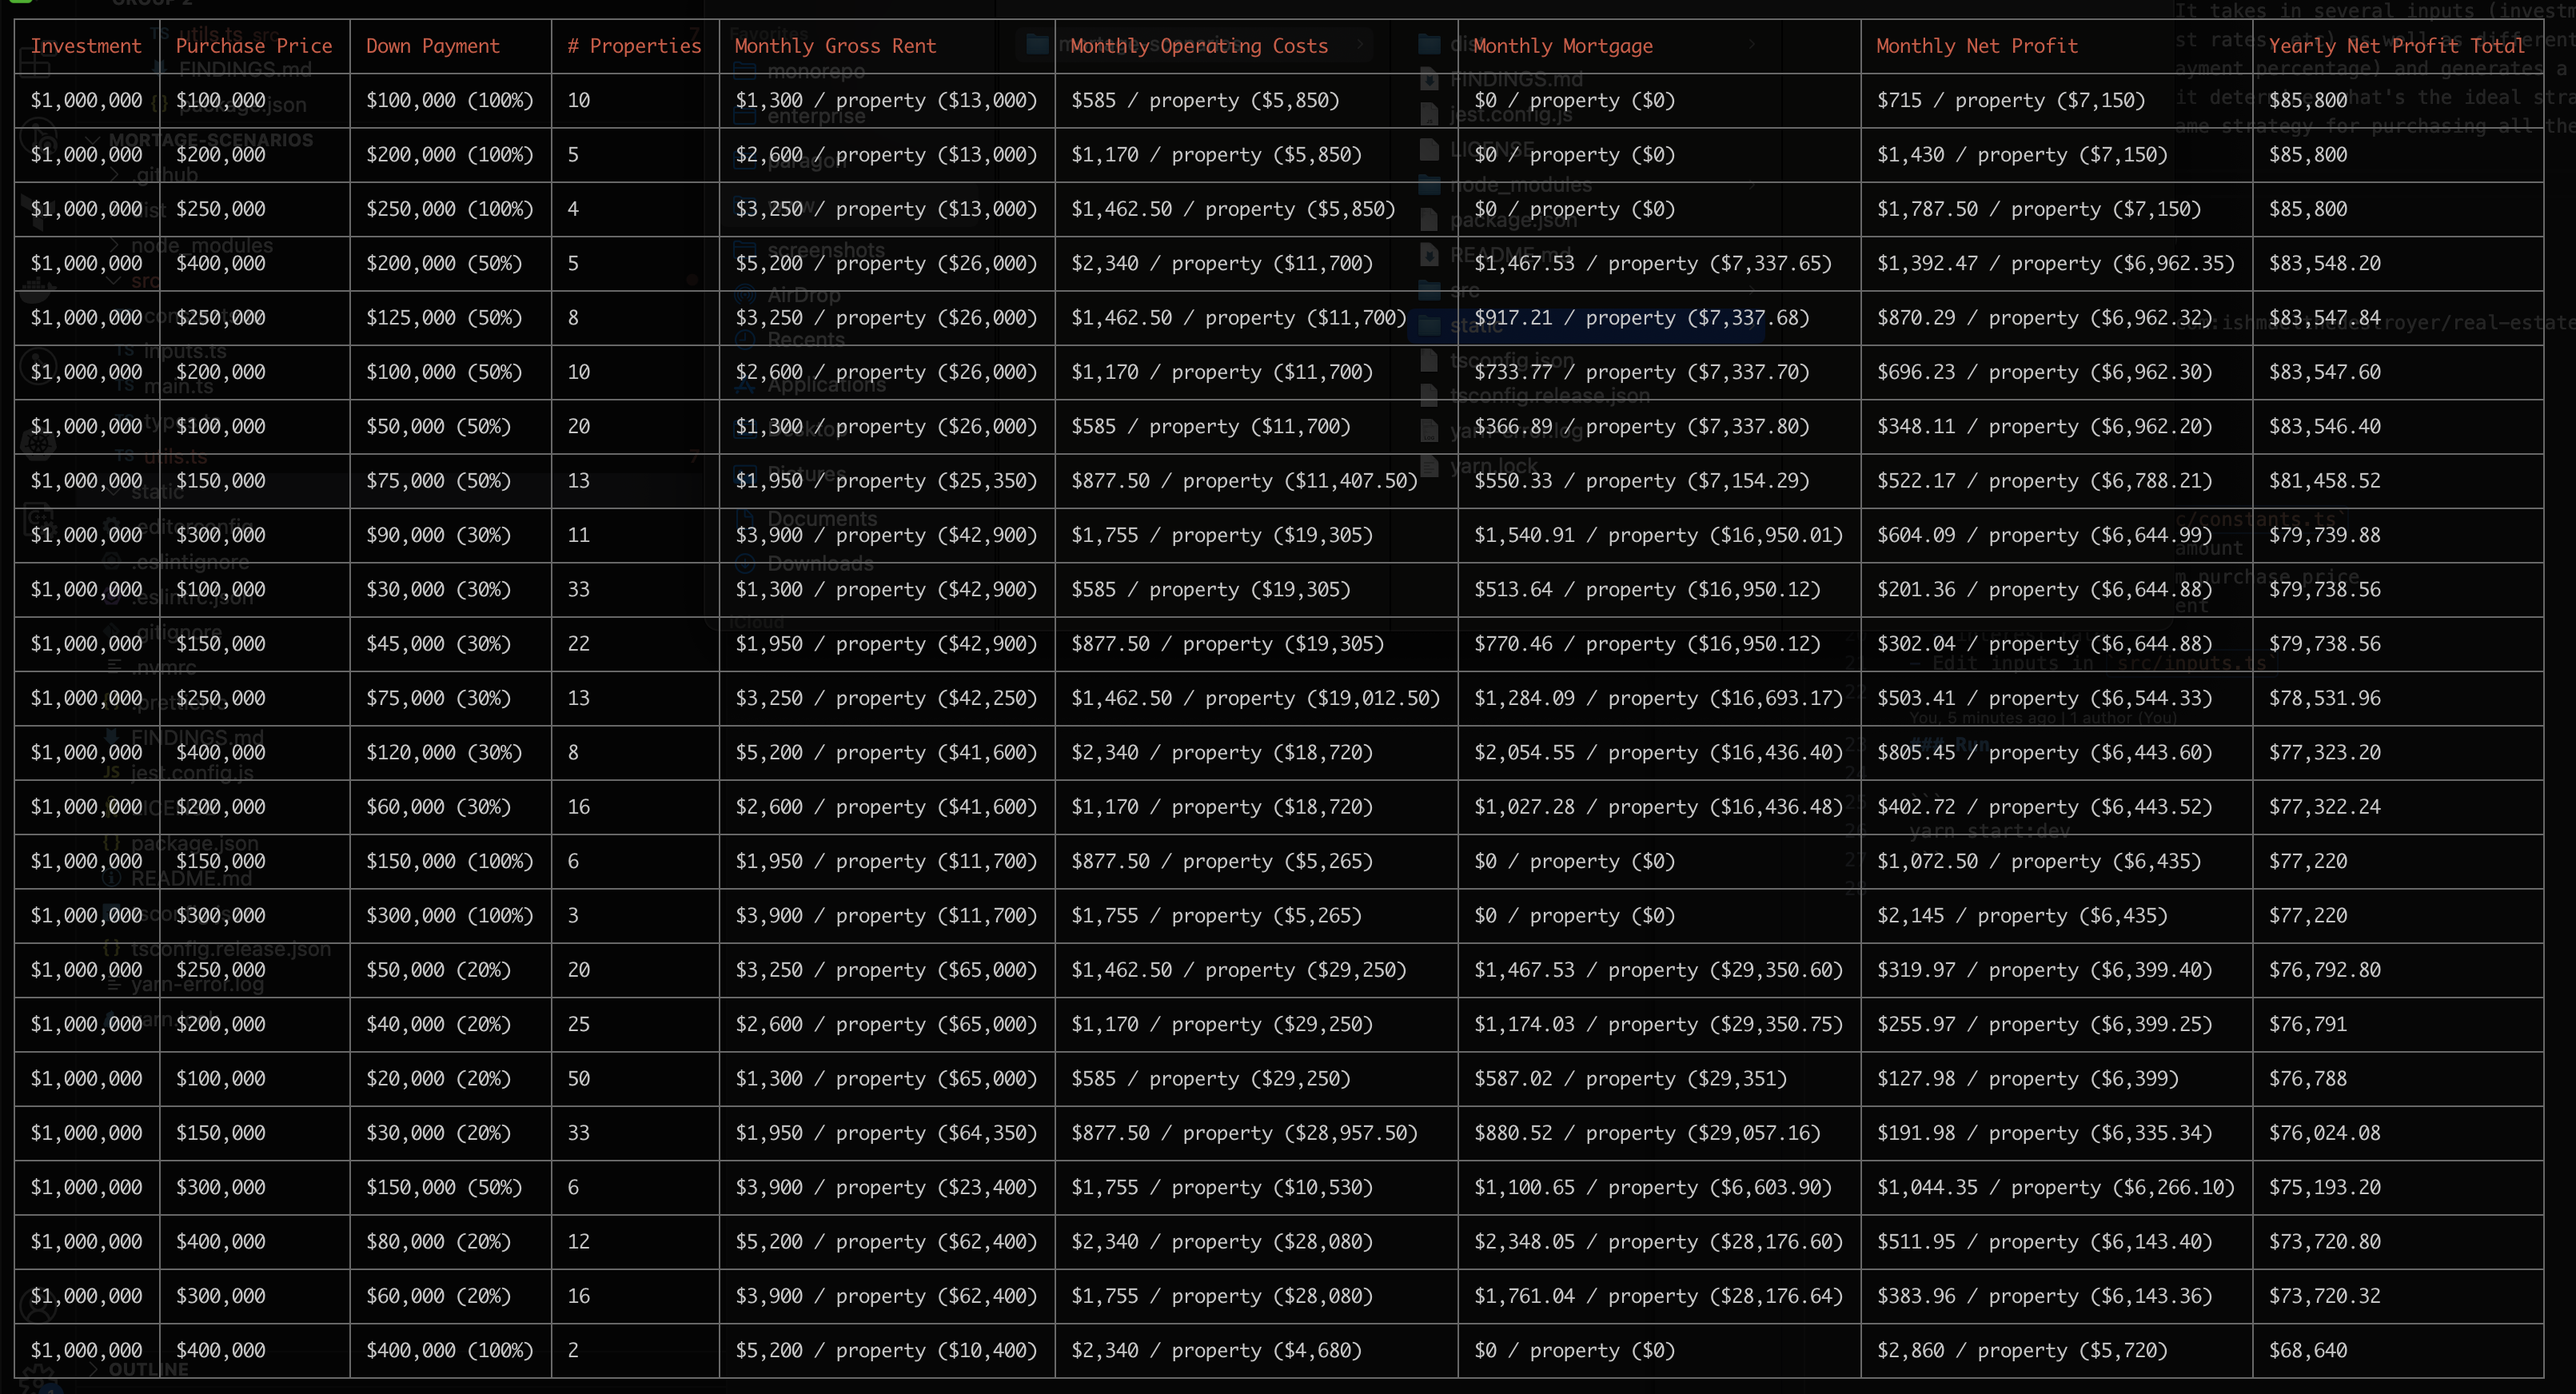
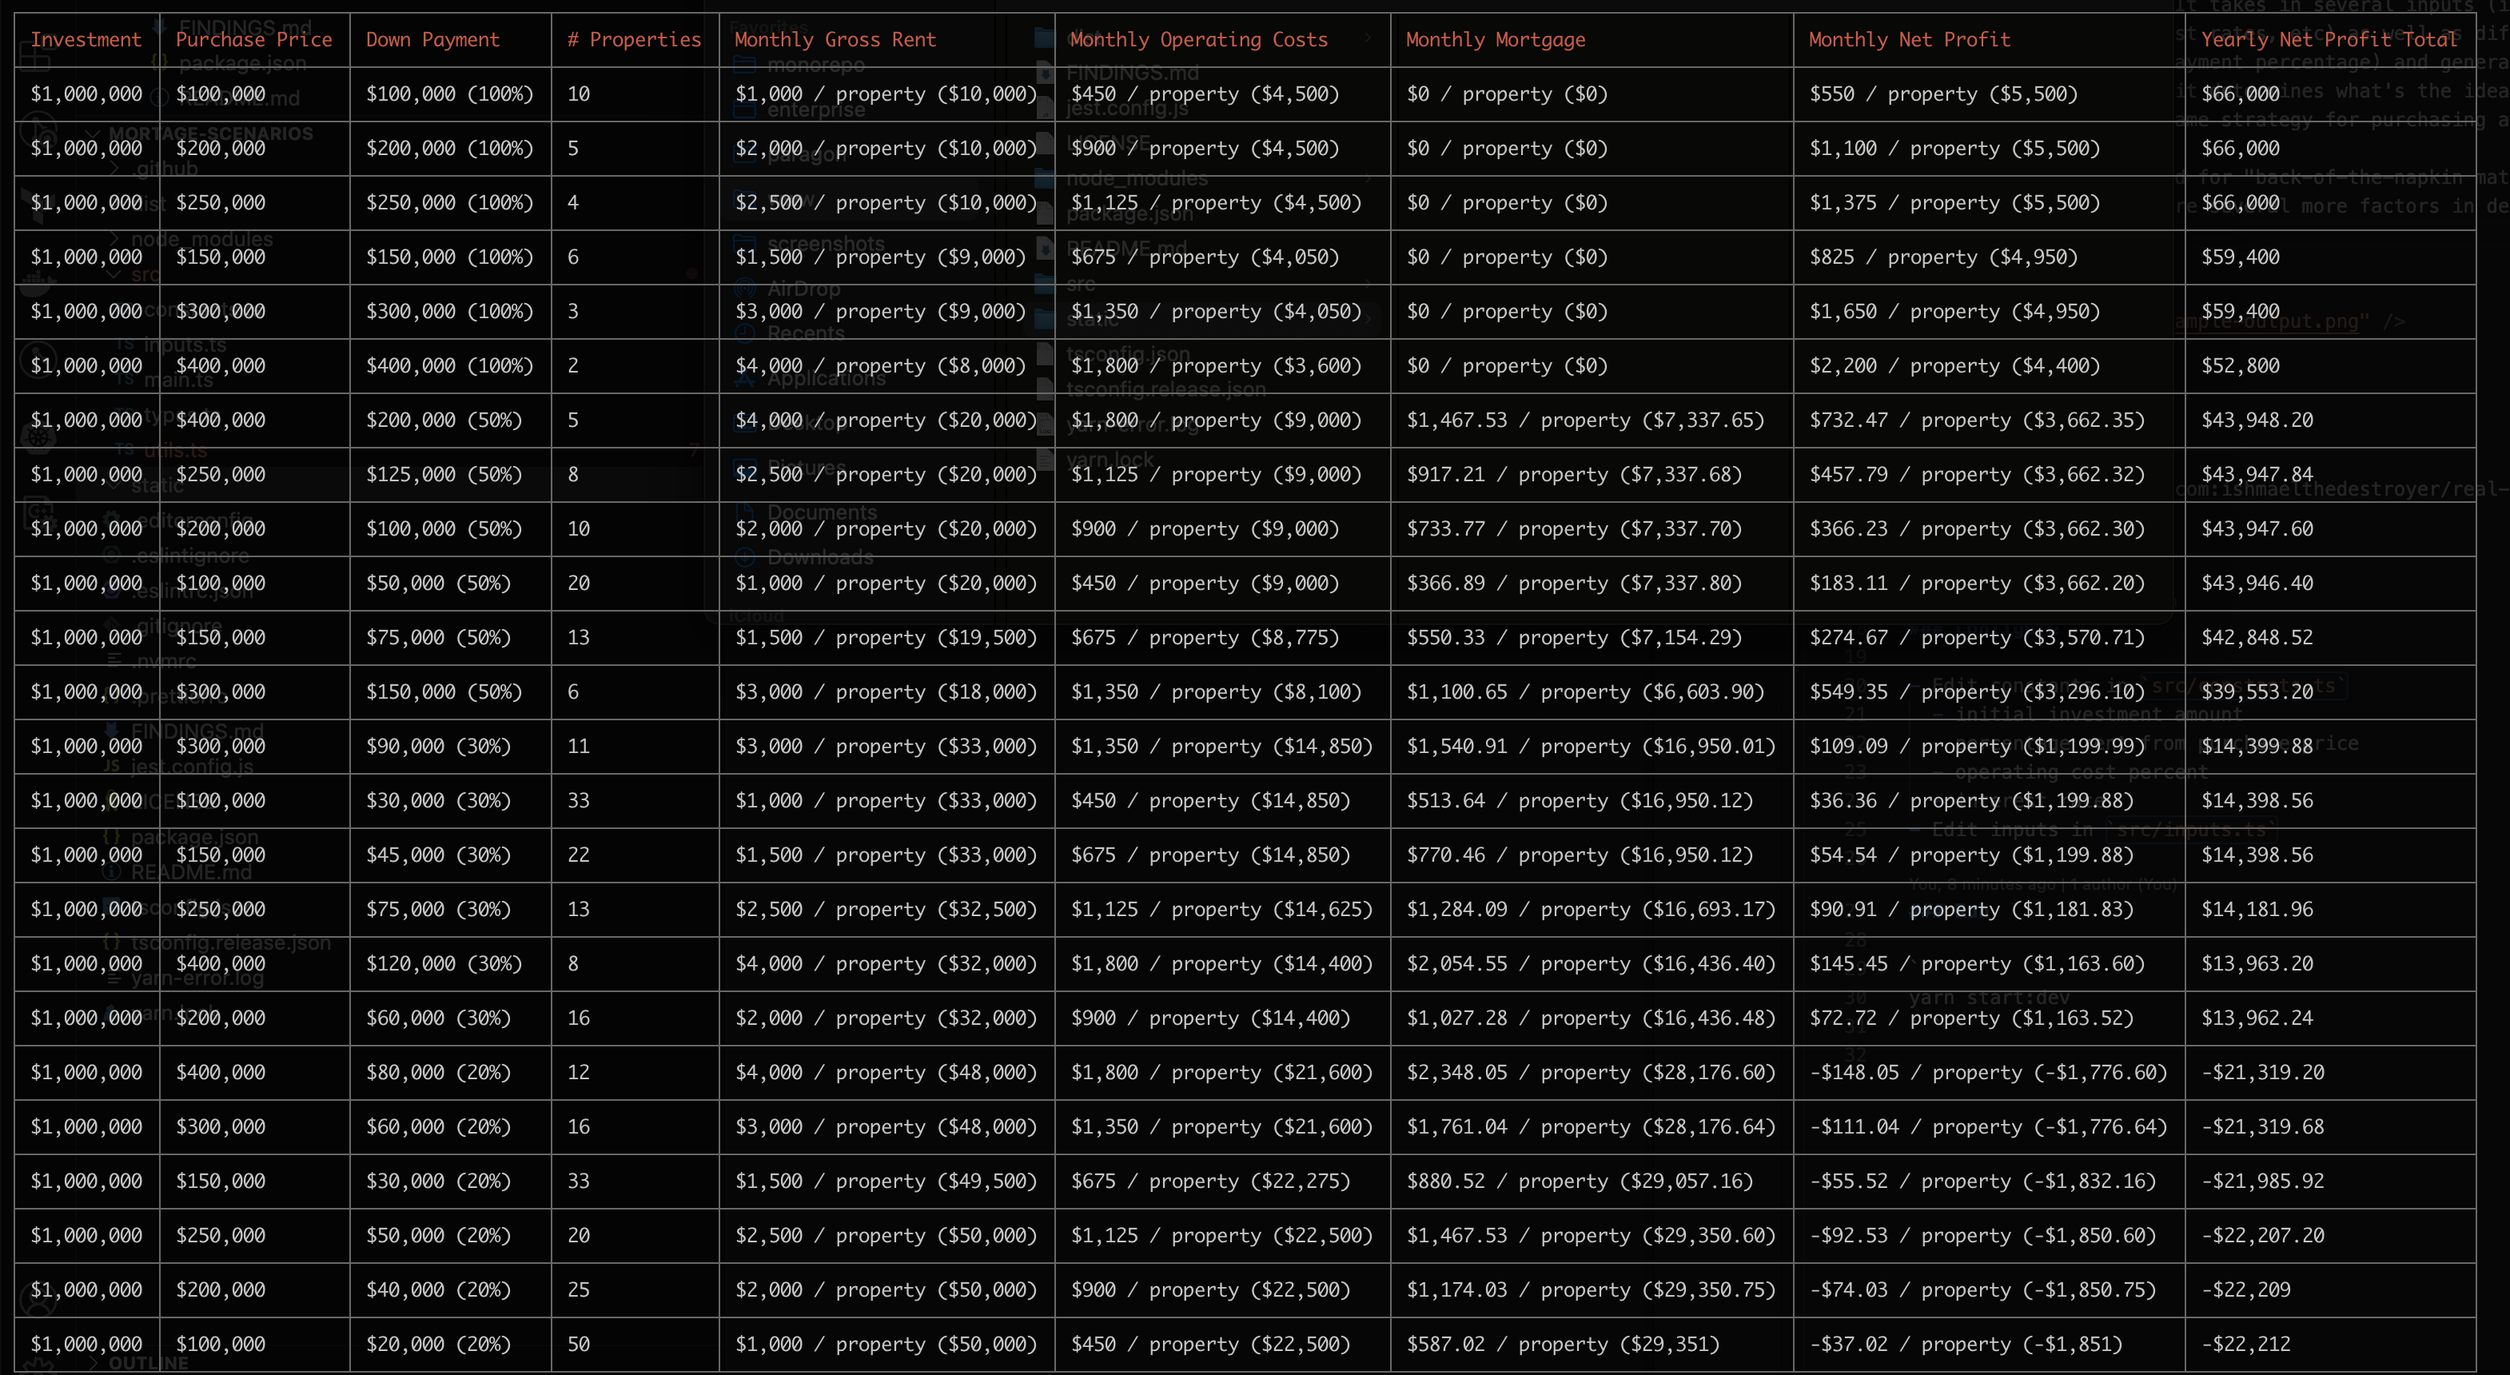
updated docs

Changed region(s): [[0.0, 0.0, 1.0, 1.0], [0.9675, 0.2157, 0.9987, 0.2465]]

diff --git a/src/constants.ts b/src/constants.ts
@@ -6,7 +6,7 @@ export const INITIAL_INVESTMENT_AMOUNT: number = 1_000_000;
 /**
  * given a purchase price, the percentage rent from the annual cost
  */
-export const PERCENTAGE_RENT_FROM_PURCHASE_PRICE: number = 0.013;
+export const PERCENTAGE_RENT_FROM_PURCHASE_PRICE: number = 0.01;
 
 /**
  * the percentage of rent that goes to operating costs

diff --git a/README.md b/README.md
@@ -4,6 +4,8 @@
 
 This is a simple tool to run different scenarios for purchasing investment properties. It takes in several inputs (investment amount, operating costs, interest rates, etc) as well as different scenarios (purchase price, down payment percentage) and generates a matrix of parameters. From there it determines what's the ideal strategy, assuming you used the same strategy for purchasing all the properties.
 
+This is meant to be used for "back-of-the-napkin math", and it's understood that there are several more factors in determining rent, operating costs, etc.
+
 <p align="center">
   <img src="./static/example-output.png" />
 </p>
